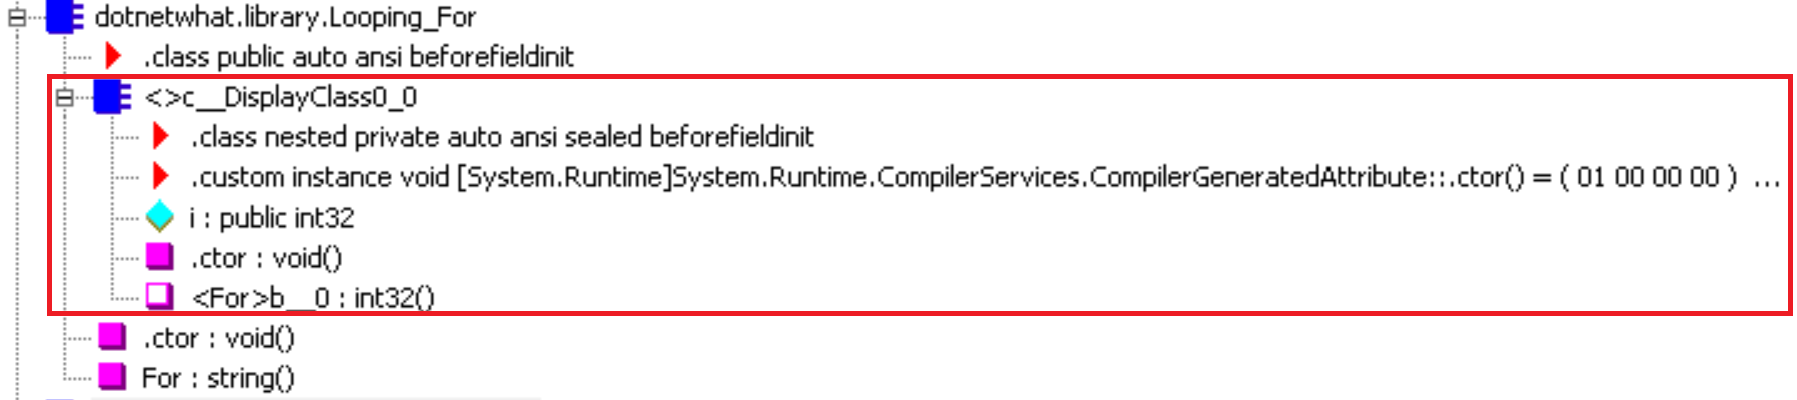
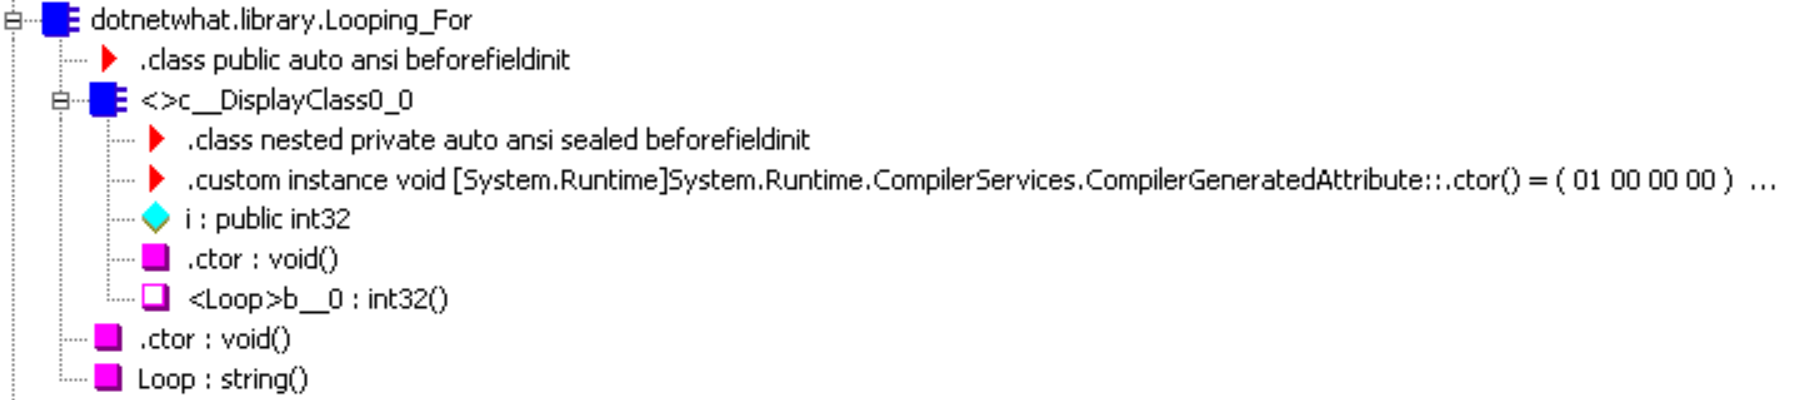
Refactor loop method

Changed region(s): [[0.0, 0.0, 1.0, 0.99], [0.0, 0.99, 0.0312, 1.0]]

diff --git a/tests/TestCases.cs b/tests/TestCases.cs
@@ -179,7 +179,7 @@ namespace dotnetwhat.tests
             var looping = new Looping_Foreach();
 
             // Act
-            var result = looping.ForEach();
+            var result = looping.Loop();
 
             // Assert
             Assert.AreEqual("12", result);
@@ -192,7 +192,7 @@ namespace dotnetwhat.tests
             var looping = new Looping_For();
 
             // Act
-            var result = looping.For();
+            var result = looping.Loop();
 
             // Assert
             Assert.AreEqual("22", result);
@@ -205,7 +205,7 @@ namespace dotnetwhat.tests
             var looping = new Looping_While();
 
             // Act
-            var result = looping.While();
+            var result = looping.Loop();
 
             // Assert
             Assert.AreEqual("22", result);

diff --git a/src/Looping_Foreach.cs b/src/Looping_Foreach.cs
@@ -4,7 +4,7 @@ namespace dotnetwhat.library
 {
     public class Looping_Foreach
     {
-        public string ForEach()
+        public string Loop()
         {
             StringBuilder sb = new StringBuilder();
 

diff --git a/src/Looping_While.cs b/src/Looping_While.cs
@@ -4,7 +4,7 @@ namespace dotnetwhat.library
 {
     public class Looping_While
     {
-        public string While()
+        public string Loop()
         {
             StringBuilder sb = new StringBuilder();
 

diff --git a/src/Looping_For.cs b/src/Looping_For.cs
@@ -4,7 +4,7 @@ namespace dotnetwhat.library
 {
     public class Looping_For
     {
-        public string For()
+        public string Loop()
         {
             StringBuilder sb = new StringBuilder();
 
